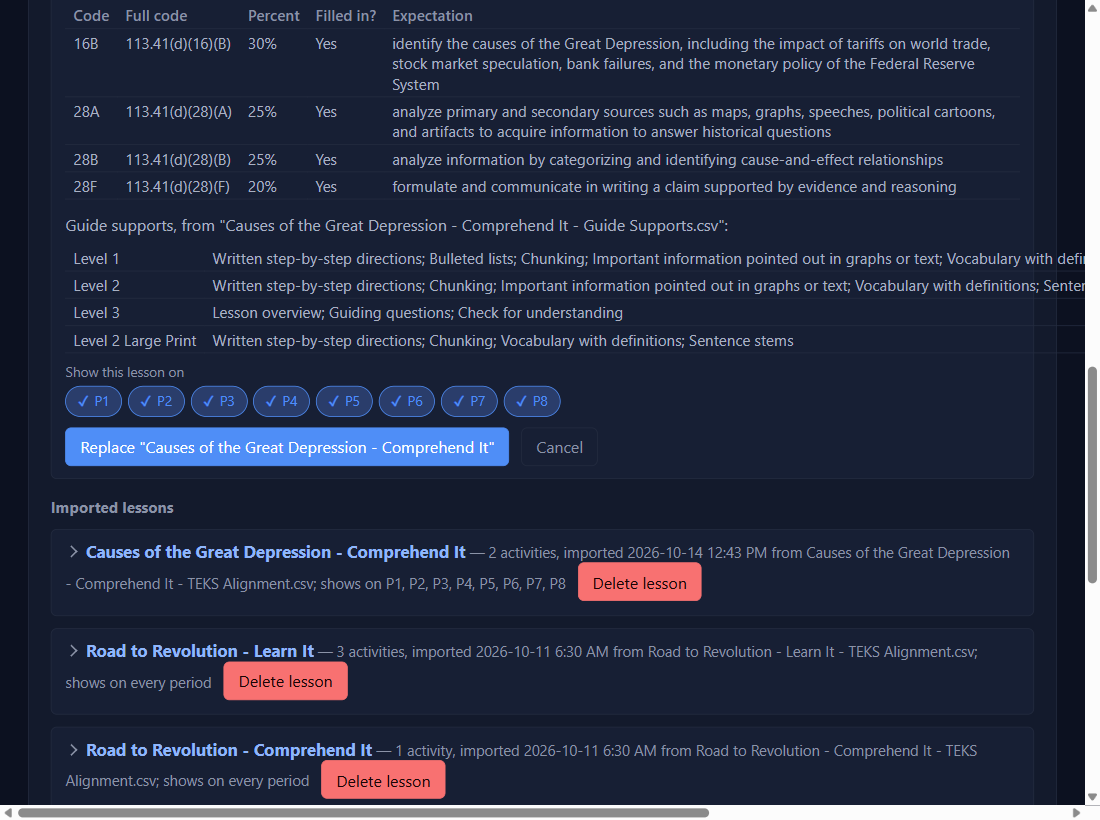
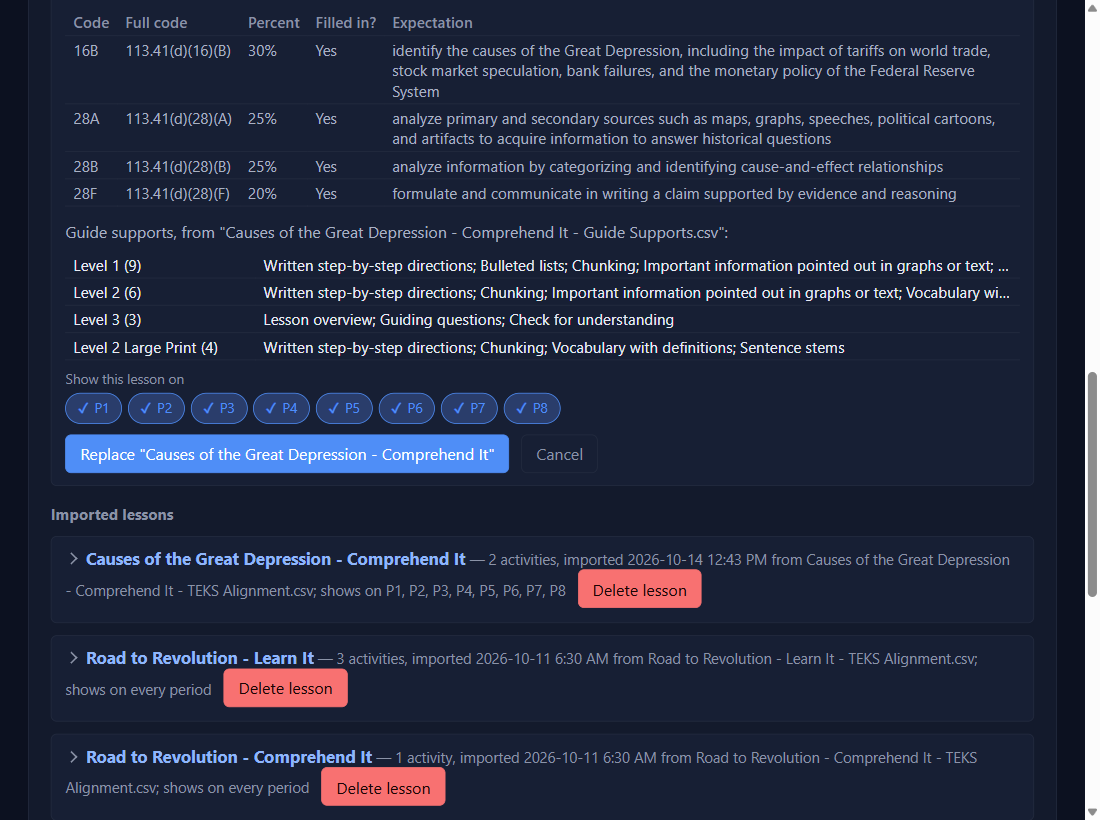
Matches 0.4.19: guide supports picture (one line per level, hover for all), front page version

diff --git a/lessons/guides-setup.html b/lessons/guides-setup.html
@@ -28,8 +28,8 @@
     </div></div>
     <div class="step"><div class="num">2</div><div>
       <h3>Settings → Lesson activities → Import lesson CSV…, and pick the TEKS Alignment file</h3>
-      <p>Pick the <b>TEKS Alignment</b> file, not the Guide Supports file. The app finds the Guide Supports file beside it by itself. Under the activities, <b>Guide supports</b> lists what each level's guide has. Tick your periods and click <b>Import</b> (or <b>Replace "…"</b> for a lesson you already had: its ticks carry over and no saved day changes).</p>
-      <div class="fig" data-pens="397,225,345,20;287,446,232,27"><img class="shot" src="../images/n-gs-1.png" alt="Guide supports in the import preview"></div>
+      <p>Pick the <b>TEKS Alignment</b> file, not the Guide Supports file. The app finds the Guide Supports file beside it by itself. Under the activities, <b>Guide supports</b> lists what each level's guide has, one line each with a count; hover a line that ends in … to see it all. Tick your periods and click <b>Import</b> (or <b>Replace "…"</b> for a lesson you already had: its ticks carry over and no saved day changes).</p>
+      <div class="fig" data-pens="395,231,340,20;542,306,485,62;287,454,232,27"><img class="shot" src="../images/n-gs-1.png" alt="Guide supports in the import preview"></div>
     </div></div>
     <div class="step"><div class="num">3</div><div>
       <h3>Optional: Settings → Leveled guide supports → Supports to suggest</h3>

diff --git a/index.html b/index.html
@@ -184,7 +184,7 @@
 <div class="hero">
   <div class="hero-inner">
     <div>
-      <div class="eyebrow"><span class="dot"></span>Matches SpEd Log Pro 0.4.18</div>
+      <div class="eyebrow"><span class="dot"></span>Matches SpEd Log Pro 0.4.19</div>
       <h1>Log the day in minutes.<br><span class="grad">Paste the service log in seconds.</span></h1>
       <p class="lede">Short, picture-by-picture lessons for every job in SpEd Log Pro, with the exact spot to click
          circled in red. Start with setup, or jump straight to what you need today.</p>
@@ -278,7 +278,7 @@
 </div>
 
 <footer><div class="in">
-  <span>© 2026 J. Scott. All rights reserved. · SpEd Log Pro Training, for SpEd Log Pro 0.4.18 · all students shown are made up</span>
+  <span>© 2026 J. Scott. All rights reserved. · SpEd Log Pro Training, for SpEd Log Pro 0.4.19 · all students shown are made up</span>
   <span>Questions? Ask the person who sent you this link.</span>
 </div></footer>
 
